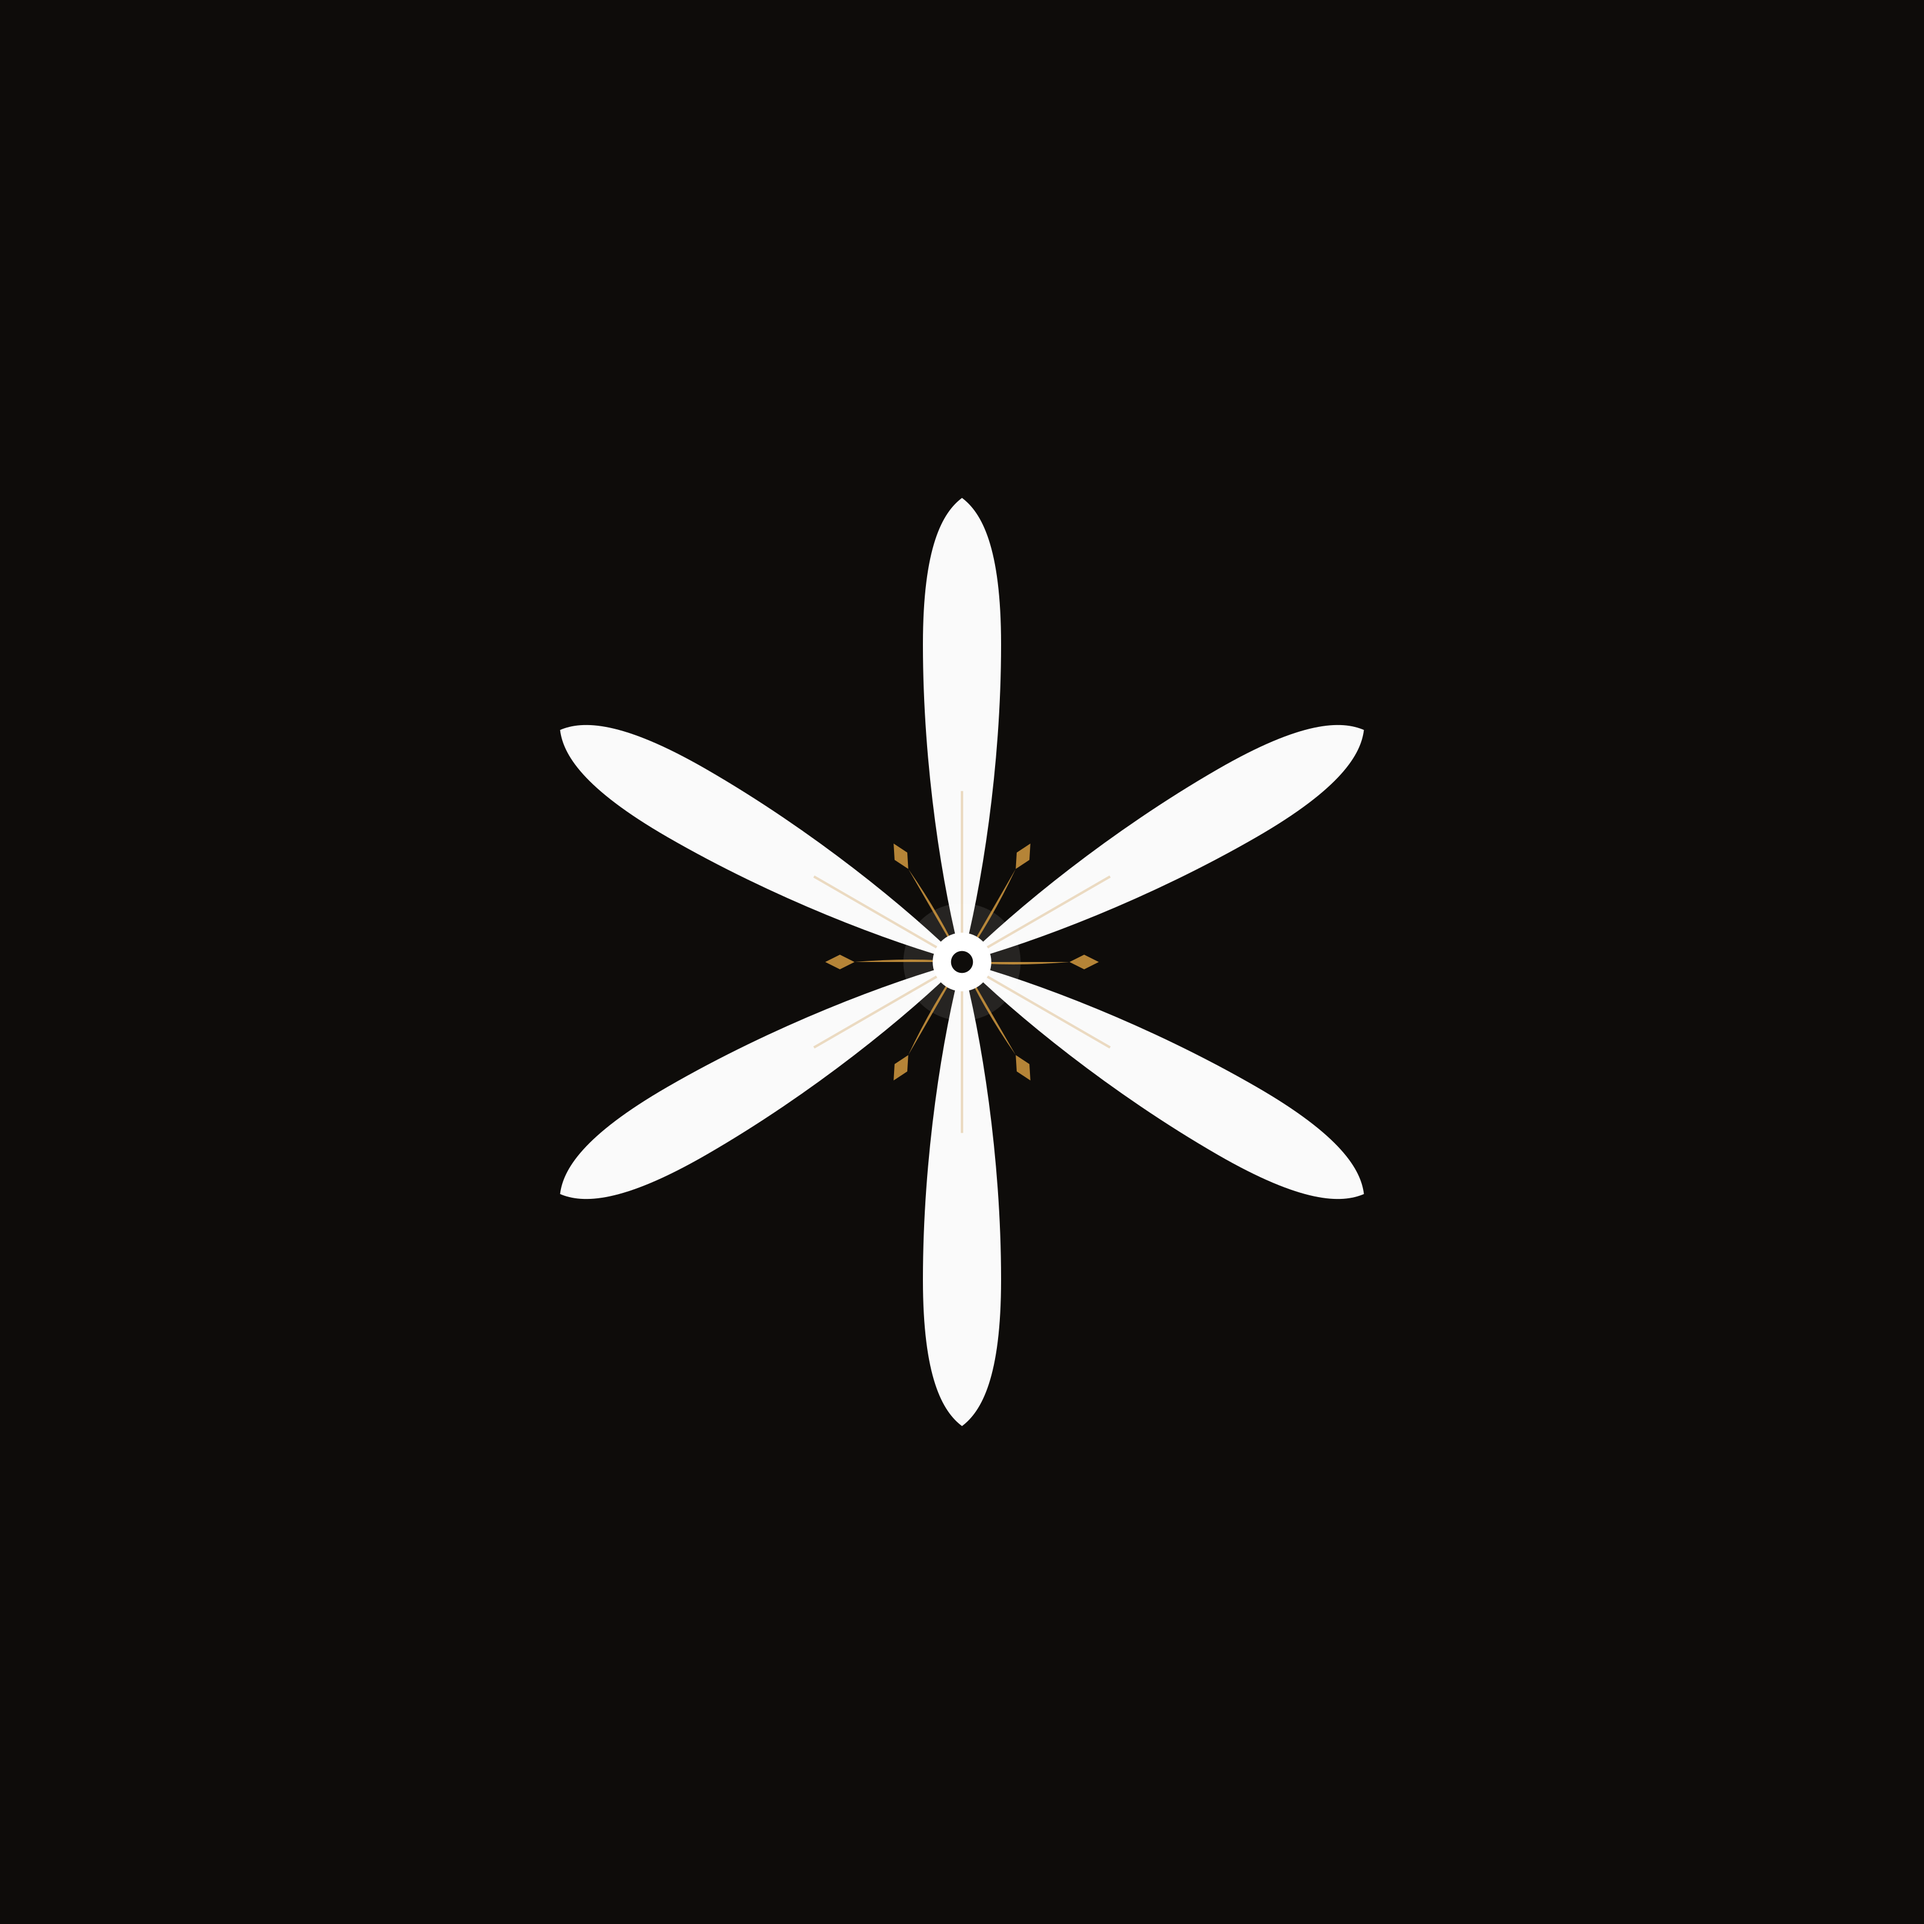
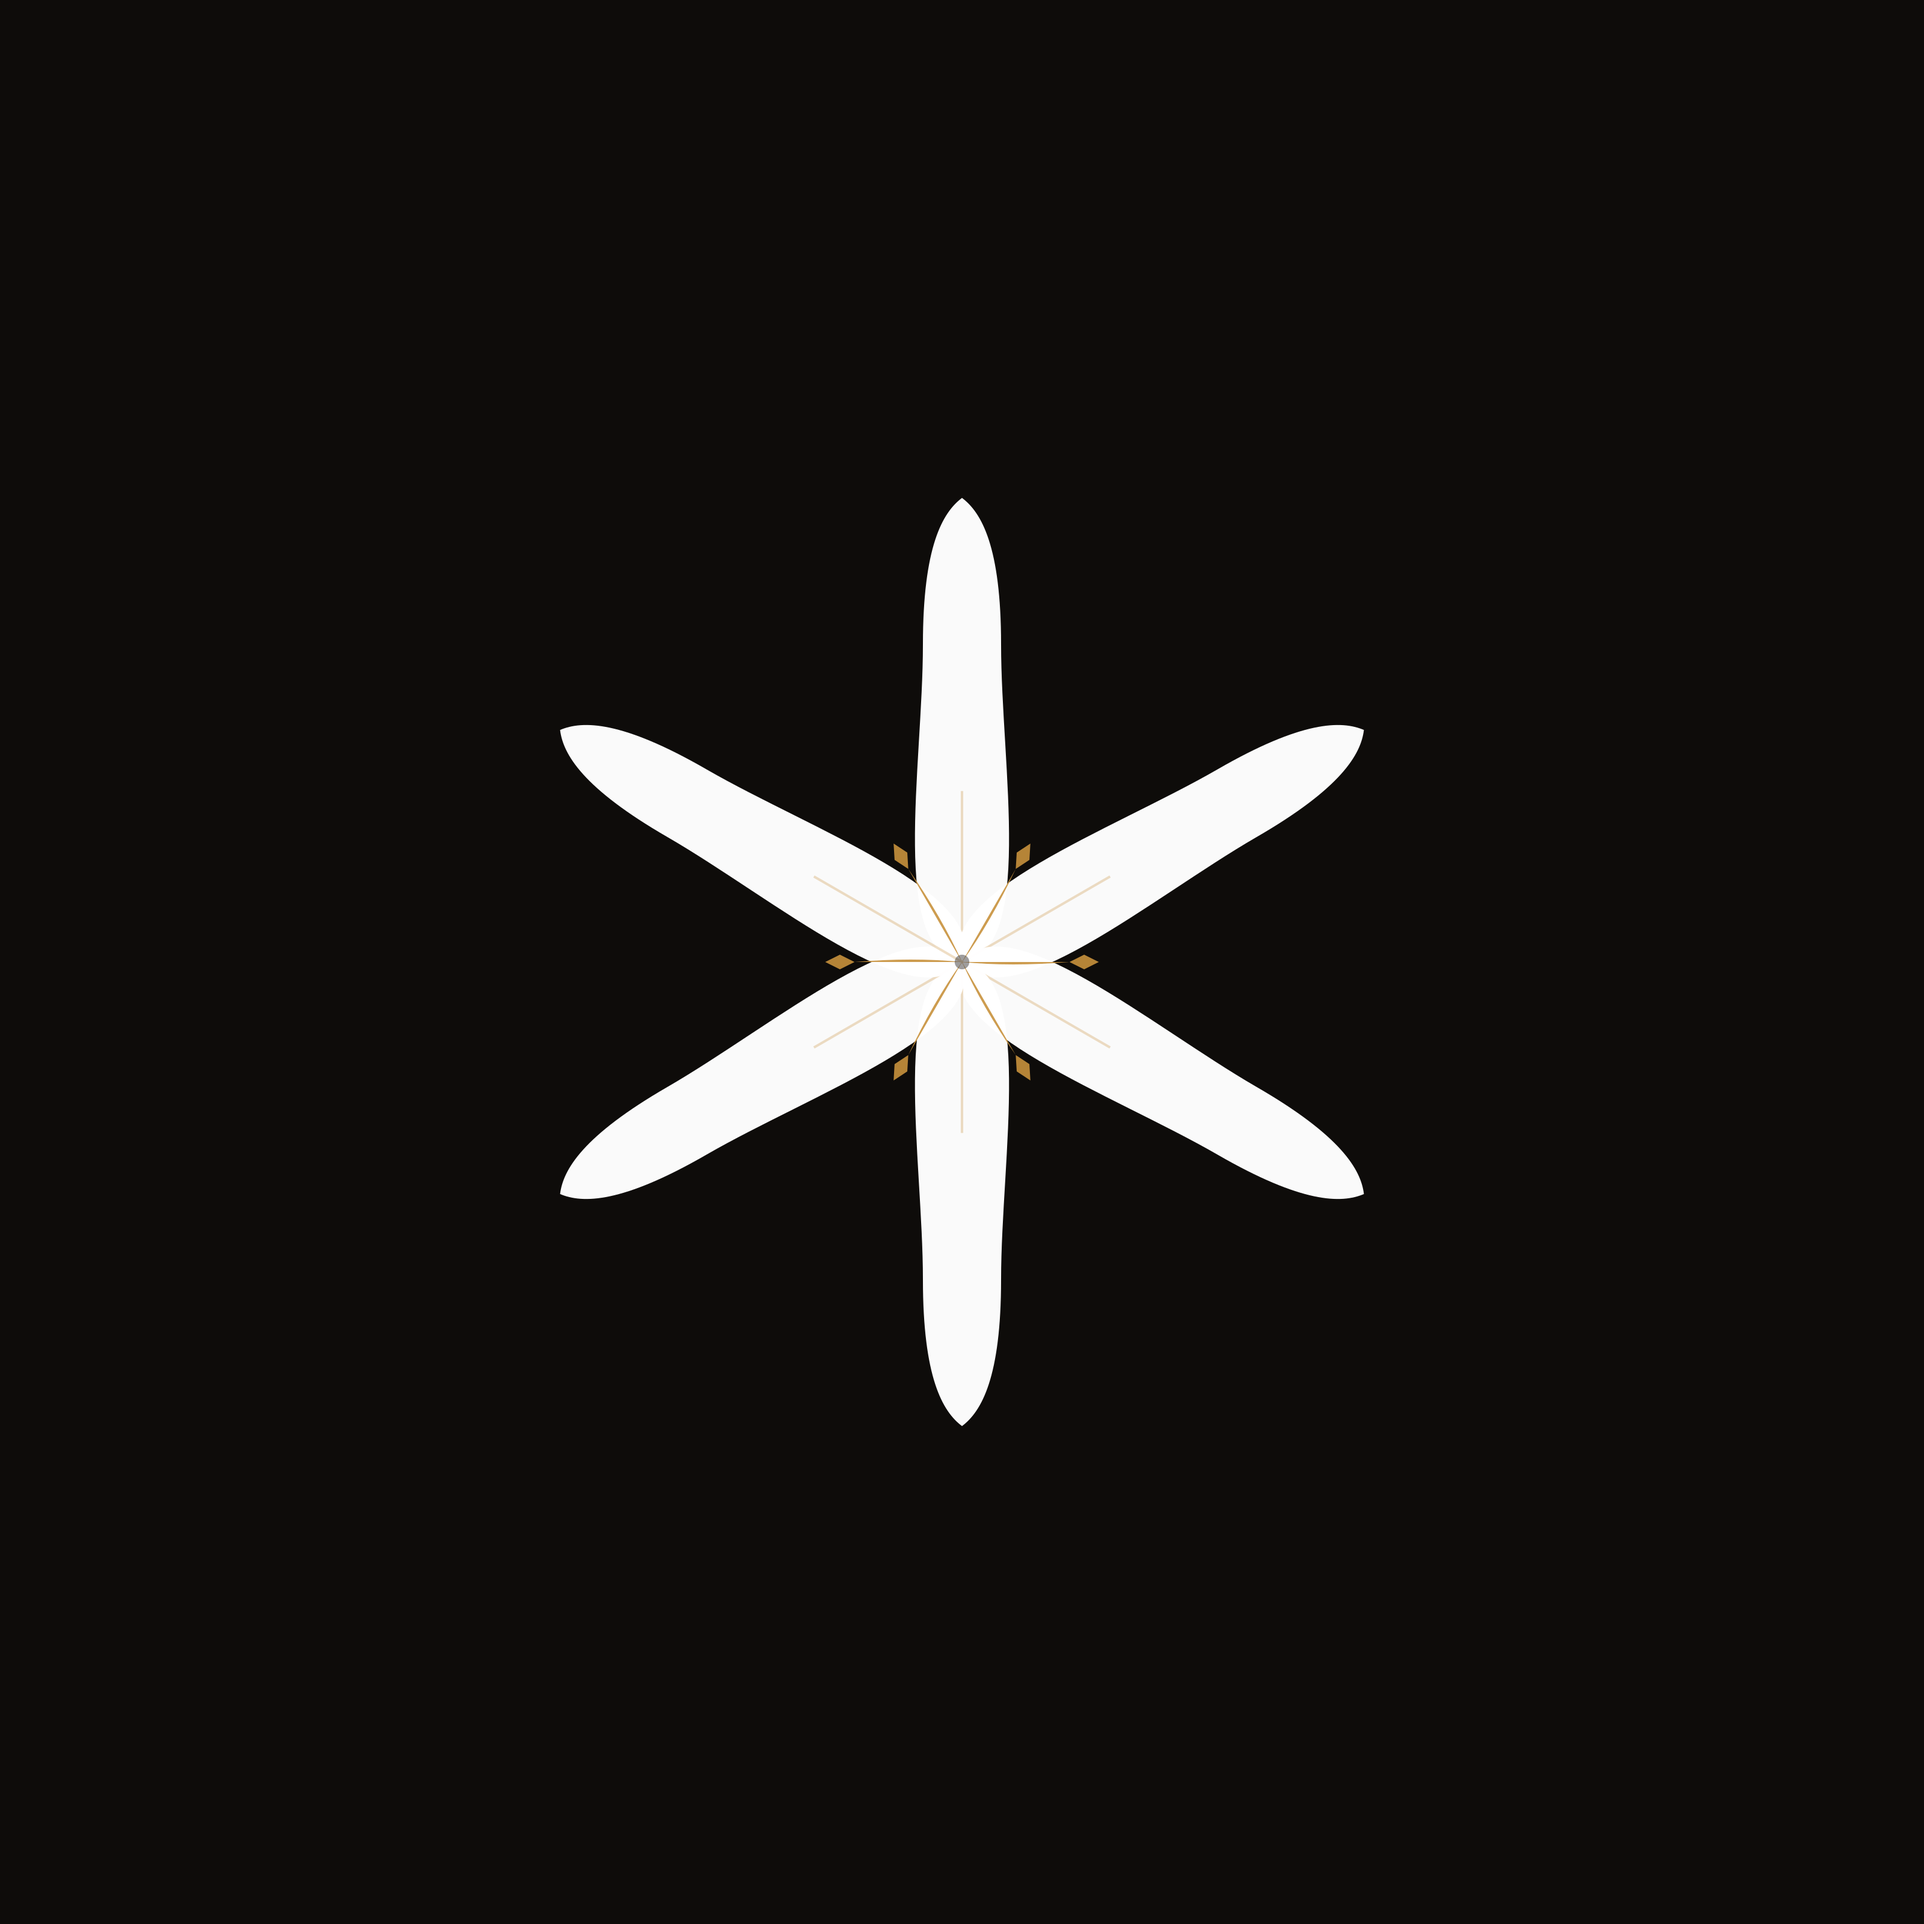
fix: fuse petal bases, remove center cluster, minimal core — cleaner blossom

diff --git a/components/CoffeeFlower.tsx b/components/CoffeeFlower.tsx
@@ -51,9 +51,9 @@ export default function CoffeeFlower({
   const strokeColor = dark ? '#3C3228' : '#FFFFFF';
   const gold = Colors.primary;
 
-  // Narrowed and elongated organic petal shape
-  const petalPath = "M100,100 C104,85 108,60 108,35 C108,15 104,8 100,5 C96,8 92,15 92,35 C92,60 96,85 100,100 Z";
-  const veinPath = "M100,100 L100,65"; // Shortened vein closer to base
+  // Widened base to eliminate gaps and connect petals naturally
+  const petalPath = "M100,100 C115,98 108,60 108,35 C108,15 104,8 100,5 C96,8 92,15 92,35 C92,60 85,98 100,100 Z";
+  const veinPath = "M100,100 L100,65";
   
   return (
     <View style={[styles.container, { width: size, height: size, opacity }]}>
@@ -71,15 +71,15 @@ export default function CoffeeFlower({
             </LinearGradient>
           </Defs>
 
-          {/* 6 Organic Petals */}
+          {/* 6 Organic Petals - Fused at base */}
           {[0, 60, 120, 180, 240, 300].map((angle) => (
             <G transform={`rotate(${angle}, 100, 100)`} key={angle}>
-              {/* Petal Body - Border removed */}
+              {/* Petal Body */}
               <Path
                 d={petalPath}
                 fill="url(#petalGrad)"
               />
-              {/* Petal Vein - Subtle gold hint at base */}
+              {/* Petal Vein */}
               <Path
                 d={veinPath}
                 stroke={gold}
@@ -90,14 +90,9 @@ export default function CoffeeFlower({
             </G>
           ))}
           
-          {/* Center Cluster - White base center */}
-          <Circle cx="100" cy="100" r="12" fill={gold} fillOpacity={0.1} />
-          <Circle cx="100" cy="100" r="6" fill={strokeColor} />
-
-          {/* Organic Stamens - Pointier and smaller filaments */}
+          {/* Organic Stamens - Smaller filaments */}
           {[30, 90, 150, 210, 270, 330].map((angle) => (
             <G transform={`rotate(${angle}, 100, 100)`} key={`stamen-${angle}`}>
-              {/* Pointy filament/bulb combo */}
               <Path
                 d="M100,100 Q101,90 100,78 L101.5,75 L100,72 L98.5,75 L100,78"
                 fill={gold}
@@ -106,8 +101,8 @@ export default function CoffeeFlower({
             </G>
           ))}
 
-          {/* Dark center core - 25% smaller (3 * 0.75 = 2.25) */}
-          <Circle cx="100" cy="100" r="2.25" fill={Colors.background} />
+          {/* Subtle center core - Smaller and less dark (semi-transparent) */}
+          <Circle cx="100" cy="100" r="1.5" fill={Colors.background} fillOpacity={0.4} />
         </Svg>
       </Animated.View>
     </View>

diff --git a/scripts/generate-icon.js b/scripts/generate-icon.js
@@ -17,13 +17,13 @@ const GOLD_COLOR = '#C8923C';
 
 function getFlowerSvg(size) {
   const scale = size / 200;
-  // Refined slender petal shape
-  const petalPath = "M100,100 C104,85 108,60 108,35 C108,15 104,8 100,5 C96,8 92,15 92,35 C92,60 96,85 100,100 Z";
-  const veinPath = "M100,100 L100,65"; // Shortened vein
+  // Widened base to eliminate gaps and connect petals naturally
+  const petalPath = "M100,100 C115,98 108,60 108,35 C108,15 104,8 100,5 C96,8 92,15 92,35 C92,60 85,98 100,100 Z";
+  const veinPath = "M100,100 L100,65";
   
   let content = '';
   
-  // 6 Petals with Veins (Borderless)
+  // 6 Petals with Veins (Fused at base)
   [0, 60, 120, 180, 240, 300].forEach(angle => {
     content += `
       <g transform="rotate(${angle}, 100, 100)">
@@ -32,7 +32,7 @@ function getFlowerSvg(size) {
       </g>`;
   });
 
-  // 6 Pointy Stamens - offset 30deg from petals
+  // 6 Pointy Stamens
   [30, 90, 150, 210, 270, 330].forEach(angle => {
     content += `
       <g transform="rotate(${angle}, 100, 100)">
@@ -42,10 +42,8 @@ function getFlowerSvg(size) {
 
   return `
     <g transform="scale(${scale})">
-      <circle cx="100" cy="100" r="12" fill="${PETAL_COLOR}" fill-opacity="0.1" />
       ${content}
-      <circle cx="100" cy="100" r="6" fill="${PETAL_COLOR}" />
-      <circle cx="100" cy="100" r="2.25" fill="${BG_COLOR}" />
+      <circle cx="100" cy="100" r="1.5" fill="${BG_COLOR}" fill-opacity="0.4" />
     </g>
   `;
 }
